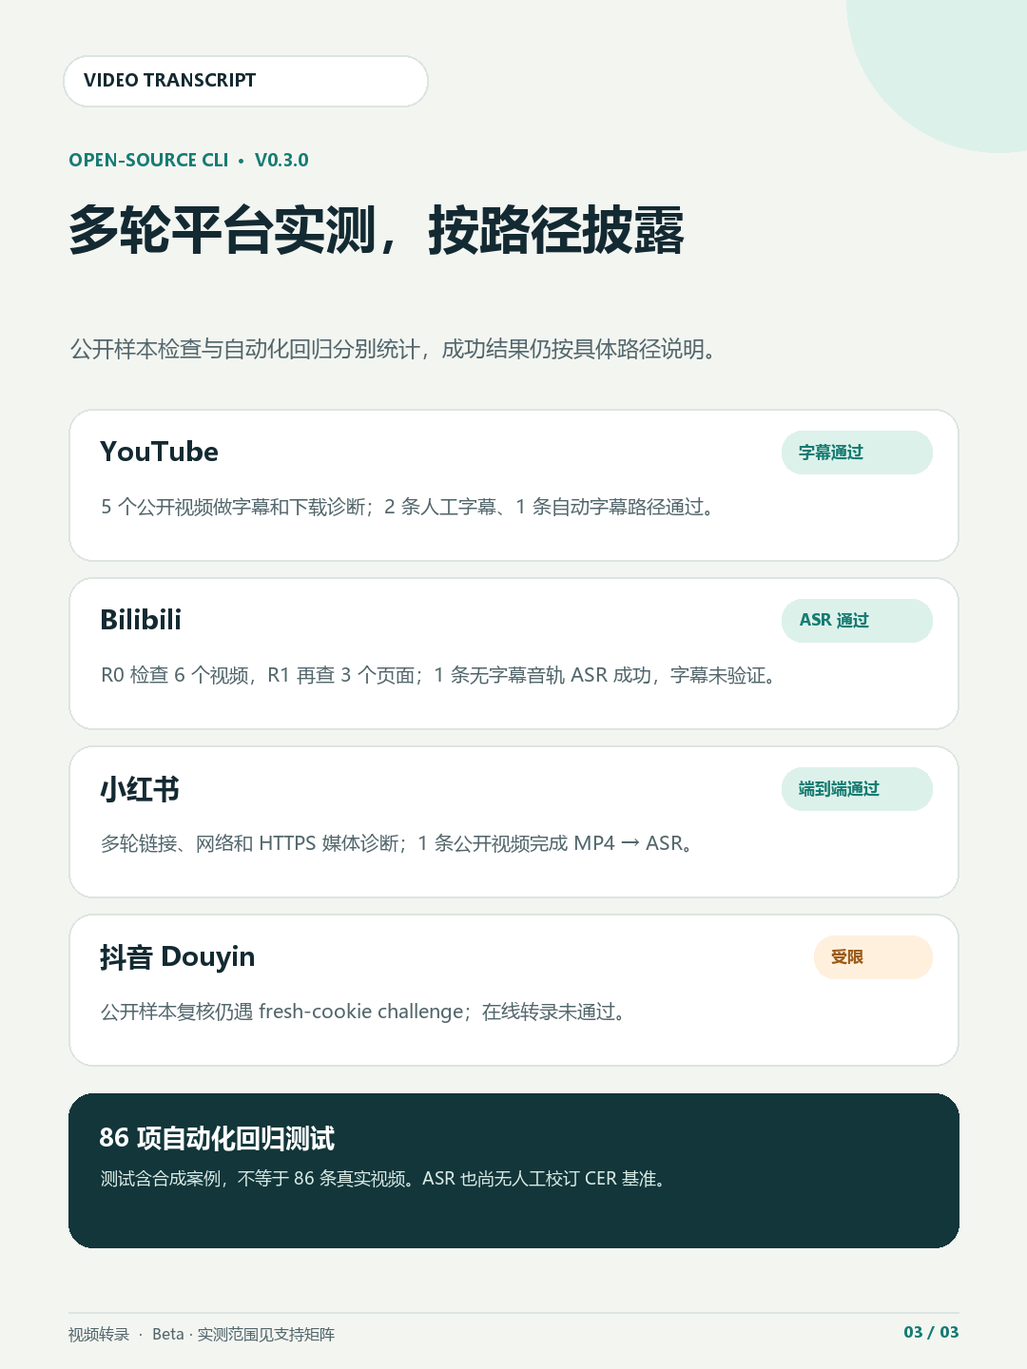
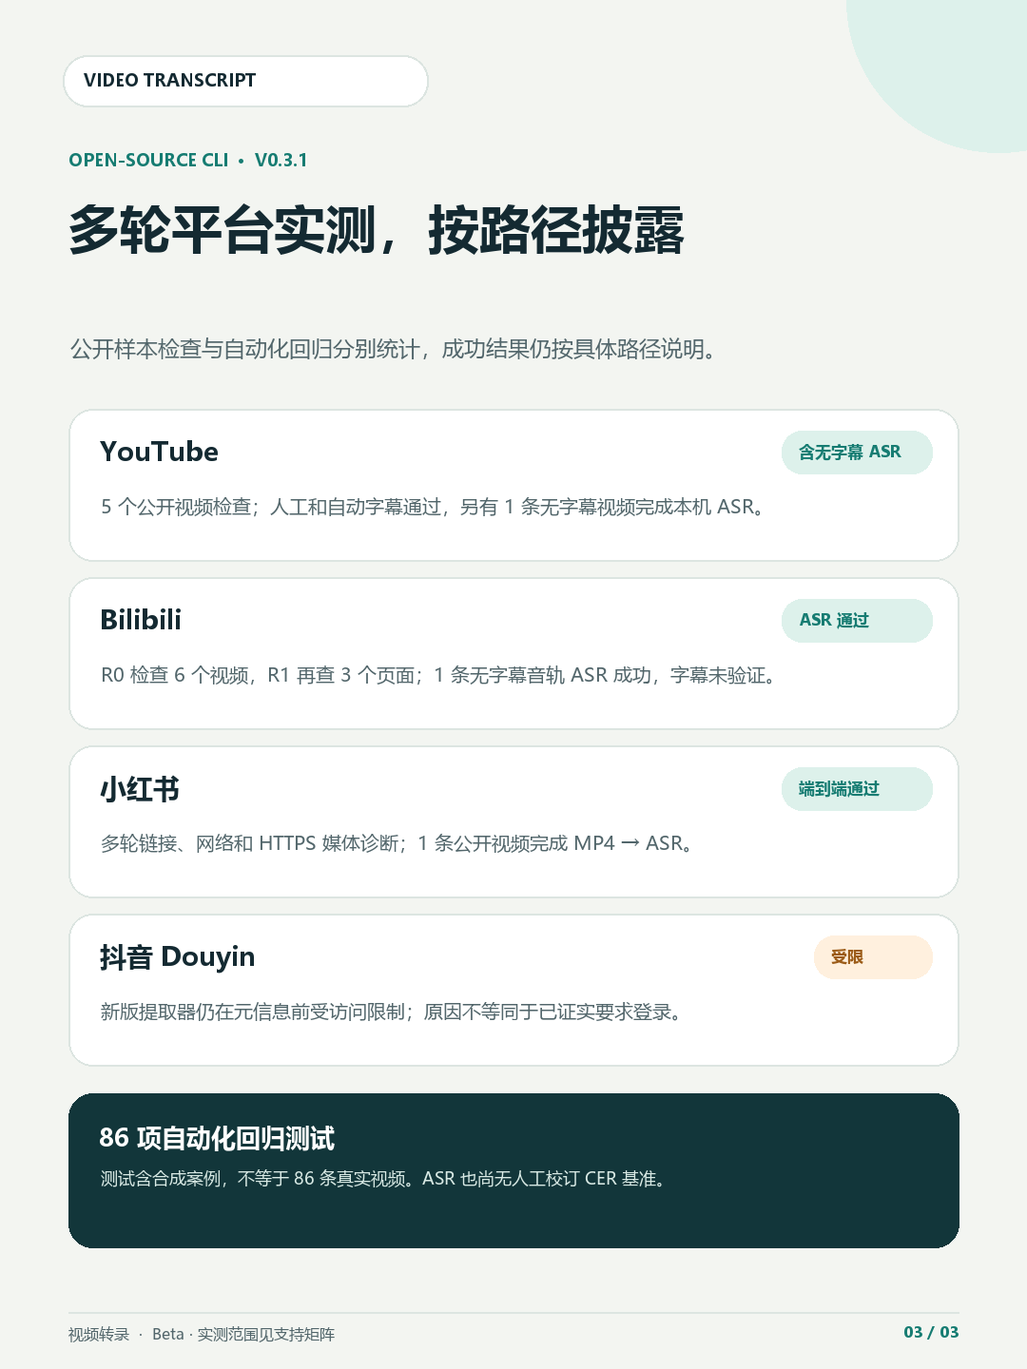
feat: improve subtitle fallback and update project branding

Changed region(s): [[0.0917, 0.7188, 0.6722, 0.75], [0.2139, 0.3438, 0.7333, 0.375], [0.7639, 0.3125, 0.8861, 0.3438]]

diff --git a/docs/assets/generate_social_cards.py b/docs/assets/generate_social_cards.py
@@ -61,7 +61,7 @@ def base(title, subtitle, page):
     d.ellipse((890, -160, 1210, 160), fill=MINT)
     rounded(d, (66, 58, 450, 112), 26, fill=WHITE, outline=LINE, width=2)
     d.text((88, 71), "VIDEO TRANSCRIPT", font=font(18, True), fill=INK)
-    d.text((72, 155), "OPEN-SOURCE CLI  ·  V0.3.0", font=font(18, True), fill=TEAL)
+    d.text((72, 155), "OPEN-SOURCE CLI  ·  V0.3.1", font=font(18, True), fill=TEAL)
     paragraph(d, (72, 202), title, font(54, True), INK, 910, leading=7, max_lines=2)
     paragraph(d, (74, 350), subtitle, font(23), MUTED, 900, leading=8, max_lines=2)
     d.line((72, 1380, 1008, 1380), fill=LINE, width=2)
@@ -138,10 +138,10 @@ def card_output():
 def card_status():
     im, d = base("多轮平台实测，按路径披露", "公开样本检查与自动化回归分别统计，成功结果仍按具体路径说明。", "03 / 03")
     rows = [
-        ("YouTube", "5 个公开视频做字幕和下载诊断；2 条人工字幕、1 条自动字幕路径通过。", "字幕通过", TEAL, MINT),
+        ("YouTube", "5 个公开视频检查；人工和自动字幕通过，另有 1 条无字幕视频完成本机 ASR。", "含无字幕 ASR", TEAL, MINT),
         ("Bilibili", "R0 检查 6 个视频，R1 再查 3 个页面；1 条无字幕音轨 ASR 成功，字幕未验证。", "ASR 通过", TEAL, MINT),
         ("小红书", "多轮链接、网络和 HTTPS 媒体诊断；1 条公开视频完成 MP4 → ASR。", "端到端通过", TEAL, MINT),
-        ("抖音 Douyin", "公开样本复核仍遇 fresh-cookie challenge；在线转录未通过。", "受限", "#9B5B17", PALE_ORANGE),
+        ("抖音 Douyin", "新版提取器仍在元信息前受访问限制；原因不等同于已证实要求登录。", "受限", "#9B5B17", PALE_ORANGE),
     ]
     y = 430
     for platform, detail, badge, color, pale in rows:

diff --git a/tests/test_n2b.py b/tests/test_n2b.py
@@ -408,6 +408,14 @@ class DownloadAdapterTests(unittest.TestCase):
                             "acodec": "aac",
                             "vcodec": "h264",
                             "duration": 1.0,
+                        }, {
+                            "format_id": "https-video-only",
+                            "url": "https://sns-video-bd.xhscdn.com/video-only.mp4",
+                            "ext": "mp4",
+                            "protocol": "https",
+                            "acodec": "none",
+                            "vcodec": "h264",
+                            "duration": 1.0,
                         }],
                     }
 
@@ -499,6 +507,8 @@ class DownloadAdapterTests(unittest.TestCase):
                         "url": "https://sns-video-bd.xhscdn.com/video.mp4?sign=private",
                         "ext": "mp4",
                         "protocol": "https",
+                        "acodec": "aac",
+                        "vcodec": "h264",
                         "duration": 1.0,
                     }],
                 }
@@ -542,6 +552,8 @@ class DownloadAdapterTests(unittest.TestCase):
                         "url": "https://sns-video-bd.xhscdn.com/video.mp4?sign=private",
                         "ext": "mp4",
                         "protocol": "https",
+                        "acodec": "aac",
+                        "vcodec": "h264",
                         "duration": 1.0,
                     }],
                 }

diff --git a/src/video_transcript_workbench/download.py b/src/video_transcript_workbench/download.py
@@ -180,9 +180,24 @@ def _xhs_https_og_video_url(
 
 
 def _has_safe_https_media_format(info: dict[str, Any], platform: str) -> bool:
+    """Return whether a safe HTTPS format can pass the download selector."""
     allowed_hosts = _allowed_hosts(platform)
     for item in info.get("formats") or []:
         if not isinstance(item, dict) or not isinstance(item.get("url"), str):
+            continue
+        if str(item.get("protocol") or "").casefold() not in ALLOWED_DOWNLOAD_PROTOCOLS:
+            continue
+        audio_codec = str(item.get("acodec") or "").casefold()
+        if not audio_codec or audio_codec == "none":
+            continue
+        extension = str(item.get("ext") or "").casefold()
+        is_supported_audio = extension in ALLOWED_AUDIO_EXTENSIONS
+        if platform == "xiaohongshu":
+            video_codec = str(item.get("vcodec") or "").casefold()
+            is_supported_muxed_mp4 = extension == "mp4" and video_codec not in {"", "none"}
+            if not (is_supported_audio or is_supported_muxed_mp4):
+                continue
+        elif not is_supported_audio:
             continue
         try:
             parsed = urlsplit(item["url"])

diff --git a/src/video_transcript_workbench/online.py b/src/video_transcript_workbench/online.py
@@ -305,7 +305,7 @@ def _safe_ytdlp_factory(platform: str, options: dict[str, Any]):
 def _harden_ytdlp_request_handlers(client: Any, allowed_hosts: tuple[str, ...]) -> None:
     """Install redirect-aware HTTPS host checks in yt-dlp's pinned transports.
 
-    yt-dlp 2026.7.4 exposes extraction and subtitle APIs publicly, but its transport
+    yt-dlp 2026.8.19 exposes extraction and subtitle APIs publicly, but its transport
     director does not expose a redirect-policy hook. The project pins this dependency
     and replaces its request handlers so each HTTP redirect is checked before the next
     request is sent. Unknown optional handlers fail closed.

diff --git a/src/video_transcript_workbench/__init__.py b/src/video_transcript_workbench/__init__.py
@@ -1,3 +1,3 @@
 """Local, evidence-preserving transcription engine."""
 
-__version__ = "0.3.0"
+__version__ = "0.3.1"

diff --git a/docs/online-support-matrix.md b/docs/online-support-matrix.md
@@ -6,11 +6,11 @@ Updated: 2026-10-20. This is a public, sample-scoped compatibility summary. PASS
 |---|---|---|
 | YouTube manual subtitles | PASS | Real sample; Apollo 11 JSON3 failure fell back to a manual VTT track and produced 335 segments. |
 | YouTube automatic subtitles | PASS | A real automatic caption track was retrieved and preserved as automatic in evidence. |
-| YouTube audio fallback when subtitles are unavailable | BLOCKED in the tested environment | Big Buck Bunny audio format selection succeeded, but access verification stopped transfer before any media bytes arrived. |
+| YouTube audio fallback when subtitles are unavailable | PASS (one sample) | A public video with no available subtitles completed audio-only download and local small/CPU/int8 ASR using yt-dlp 2026.8.19; one other media-transfer diagnostic remains blocked by an access check. |
 | Bilibili audio fallback when subtitles are unavailable | PASS | Real audio-only stream was downloaded and transcribed locally on CPU. |
 | Bilibili manual/automatic subtitle success | NOT TESTED | Tested anonymous public pages did not expose a usable subtitle track; no successful real subtitle sample is claimed. |
-| Douyin manual/automatic subtitle retrieval | BLOCKED | Rechecked 2026-10-19 through the available process-level proxy. The real public sample again reached the Douyin extractor and returned a fresh-cookie challenge before metadata or tracks; no credentials were read or supplied. |
-| Douyin audio fallback | BLOCKED | Stopped before subtitle selection and audio transfer because the same platform access check applies. |
+| Douyin manual/automatic subtitle retrieval | BLOCKED | Rechecked 2026-10-20 with yt-dlp 2026.8.19 through the available process-level proxy and without credentials. The extractor returned an access/auth-restricted error before metadata or tracks. Its “fresh cookies” wording does not establish that login is the cause. |
+| Douyin audio fallback | BLOCKED | Stopped before subtitle selection and audio transfer because metadata retrieval was blocked. No cookies, signed request generation, or browser-session reuse was attempted. |
 | Xiaohongshu manual/automatic subtitle success | NOT TESTED | The tested share page returned metadata but no subtitle tracks; no subtitle parser success is claimed. |
 | Xiaohongshu audio fallback when subtitles are unavailable | PASS (one sample) | Page-provided HTTPS `og:video` MP4 returned 206 `video/mp4` for a 1 KiB range probe; bounded 85,787,212-byte MP4 download then passed PyAV audio/video validation and small/CPU/int8 ASR, producing 408 segments. |
 | Local media CPU transcription | PASS | Windows Python 3.11.9, cached small model, CPU/int8 real run. |
@@ -21,19 +21,19 @@ The following counts summarize the R0/R1 and release checks. A page check, a suc
 
 | Platform | Public sample checks | Verified result |
 |---|---|---|
-| YouTube | Five distinct public videos were used for subtitle, parser, or media-transfer diagnostics. | Manual subtitle retrieval succeeded on two videos and automatic subtitle retrieval on one. Two media-transfer diagnostics stopped at a platform access check; only one was the no-subtitle ASR fallback sample. |
+| YouTube | Five distinct public videos were used for subtitle, parser, or media-transfer diagnostics. | Manual subtitle retrieval succeeded on two videos and automatic subtitle retrieval on one. One no-subtitle video completed audio download and local ASR with yt-dlp 2026.8.19; one other media-transfer diagnostic stopped at a platform access check. |
 | Bilibili | R0 checked six public videos; R1 checked three additional public pages for metadata and subtitle tracks. | One no-subtitle audio sample completed local ASR. No usable subtitle track was found in these checks, so subtitle-success remains unverified. |
 | Xiaohongshu | Multiple URL, network, page, and HTTPS-media diagnostics were performed. | One public video completed HTTPS MP4 retrieval, audio decoding, and local ASR. |
-| Douyin | A public sample was checked and rechecked through the available anonymous access path. | A fresh-cookie challenge stopped metadata or media retrieval; no online end-to-end ASR passed. |
+| Douyin | A public sample was checked and rechecked through the available anonymous access path using yt-dlp 2026.8.19. | An access/auth-restricted error stopped metadata retrieval; the extractor's fresh-cookie wording does not establish that login is the cause. No online end-to-end ASR passed. |
 
 The release regression suite contains 86 automated tests, including synthetic and offline cases. Those tests are reported separately and do not represent 86 real videos. The real-platform checks above are targeted compatibility checks, not a random or representative market sample. ASR has no CER benchmark against human-verified references.
 
 ## User-visible limitations
 
 - Subtitle availability depends on each video's subtitle tracks and the requested language.
-- The tested YouTube audio fallback was stopped by a platform access check. The program does not use cookies or bypass login, human verification, permission, or regional restrictions.
+- YouTube no-subtitle fallback completed on one public sample with yt-dlp 2026.8.19; another media-transfer diagnostic remains blocked by an access check. The program does not use cookies or bypass login, human verification, permission, or regional restrictions.
 - Bilibili subtitle success has not yet been verified on a real public sample.
-- The tested Douyin sample again required fresh cookies when rechecked on 2026-10-19, which this tool will not obtain or use. One Xiaohongshu sample succeeded through a page-provided HTTPS MP4; other videos may expose only HTTP media, no media, or require platform access checks.
+- The tested Douyin sample remained access-restricted before metadata when rechecked on 2026-10-20 with yt-dlp 2026.8.19. The extractor's fresh-cookie wording does not prove that login is the cause, and this tool will not obtain or use credentials. One Xiaohongshu sample succeeded through a page-provided HTTPS MP4; other videos may expose only HTTP media, no media, or require platform access checks.
 - Xiaohongshu manual/automatic subtitle parsing remains untested on a successful track. The MP4 ASR result is limited to one public sample and is not a universal compatibility or accuracy guarantee.
 - The ASR comparison has no human-reference CER results. No model accuracy ranking or universal accuracy claim is made.
 - A successful public sample does not guarantee another video's availability or transcription quality.

diff --git a/README.en.md b/README.en.md
@@ -1,11 +1,11 @@
 # Video Transcript
 
-**Video Transcript Workbench · Online CLI Beta v0.3.0**<br>
+**Video Transcript · Online CLI Beta v0.3.1**<br>
 [简体中文](README.md) · [Online platform verification matrix](docs/online-support-matrix.md)
 
-Video Transcript handles online links and local media. For online links it checks for usable subtitles first. When none match, and the platform permits media retrieval and the machine has enough resources, it runs CPU speech recognition locally. This provides a path for some videos without usable subtitles, subject to platform access.
+Turn supported video links or local media into timestamped transcripts. When usable subtitles are unavailable, the tool can recognize speech locally if the platform permits media retrieval. This gives some videos without captions a local ASR path, subject to platform access.
 
-The CLI writes a timestamped `transcript.md` and an `evidence.json` with raw segments, source, and run settings. With the Codex project Skill, users can also request a separate analysis document based on the transcript. That is an optional agent step; it does not rewrite the transcript and is not generated by the CLI by default.
+The CLI writes `transcript.md` and `evidence.json` with raw segments, source, and run settings. If you request analysis in Codex, the project Skill can have the agent save a separate `analysis.md`. This is optional and never overwrites the transcript; the CLI does not generate it.
 
 > The Beta has gone through multiple real-platform sample checks and automated regression runs. Public claims are scoped by platform and processing path; they do not guarantee success for every video.
 
@@ -62,19 +62,19 @@ The transcript, JSON, and analysis text shown above are **fictional format examp
 |---|---|---|
 | YouTube manual subtitles | PASS | Real retrieval; a fallback subtitle format was verified after a specific format failed. |
 | YouTube automatic subtitles | PASS | Real automatic captions were retrieved and remain marked as automatic in evidence. |
-| YouTube no-subtitle audio fallback | Restricted | The tested environment hit a platform access check; the tool does not bypass it. |
+| YouTube no-subtitle audio → local ASR | PASS (one sample) | One video without available subtitles completed audio download and CPU/int8 transcription; another media request remains access-restricted. |
 | Bilibili audio fallback → local ASR | PASS | Real audio-only download and local CPU transcription. |
 | Bilibili subtitle retrieval | Not tested | No real subtitle success sample is available. |
 | Xiaohongshu HTTPS MP4 → local ASR | PASS (one sample) | One public video completed real retrieval and local transcription; this is not a guarantee for other videos. |
 | Xiaohongshu subtitle retrieval | Not tested | No real subtitle-track parsing success has been verified. |
-| Douyin online transcription | Restricted | The real sample hit a fresh-cookie challenge; no online end-to-end transcription passed, and the tool does not read or obtain credentials. |
+| Douyin online transcription | Restricted | The current extractor remains access-restricted before metadata. Its “fresh cookies” message does not establish that login is the cause; the tool does not obtain or use credentials. |
 
 ### Sample coverage
 
-- YouTube: five distinct public videos were used for subtitle, parser, or media-transfer diagnostics. Manual subtitle retrieval succeeded on two videos and automatic subtitle retrieval on one. Two transfer diagnostics stopped at a platform access check; only one was a no-subtitle ASR fallback sample.
+- YouTube: five distinct public videos were used for subtitle, parser, or media-transfer diagnostics. Manual subtitle retrieval succeeded on two videos and automatic subtitle retrieval on one. One no-subtitle video completed audio download and local ASR with yt-dlp 2026.8.19; one other transfer diagnostic stopped at a platform access check.
 - Bilibili: R0 checked six public videos, and R1 checked three additional public pages for metadata and subtitle tracks. One no-subtitle audio sample completed local ASR; no real subtitle-success sample is available.
 - Xiaohongshu: multiple URL, network, and HTTPS-media diagnostics were run; one public video completed the MP4-to-local-ASR path.
-- Douyin: a public sample was rechecked and hit a fresh-cookie challenge; online transcription did not complete.
+- Douyin: a public sample was rechecked without credentials using yt-dlp 2026.8.19 and remained access-restricted before metadata; online transcription did not complete.
 - The 86 automated regression tests are counted separately. They include offline and synthetic cases and do not represent 86 real videos.
 
 See the [online support matrix](docs/online-support-matrix.md) for sample coverage and user-visible limitations. Public-video checks, successful paths, and automated regression tests are reported separately. **There is no CER benchmark against human-verified references, so this project makes no model-ranking or universal accuracy claim.**
@@ -92,8 +92,8 @@ The package provides three entry points:
 The validated environment is Windows 10/11 with Python 3.11. Python 3.10+ is declared, but other versions and operating systems have not been verified.
 
 ~~~powershell
-git clone https://github.com/CHAOSEA/video-transcript-workbench.git
-cd video-transcript-workbench
+git clone https://github.com/CHAOSEA/video-transcript.git
+cd video-transcript
 py -3.11 -m venv .venv
 .\.venv\Scripts\python.exe -m pip install --upgrade pip
 .\.venv\Scripts\python.exe -m pip install .

diff --git a/DEPENDENCIES.md b/DEPENDENCIES.md
@@ -15,7 +15,7 @@ The project's source code is licensed under **MIT**, with copyright line `Copyri
 | Python | Validated: 3.11.9; declared: >=3.10 | Python Software Foundation License | [Official license](https://docs.python.org/3/license.html) |
 | faster-whisper | 1.2.1 | MIT | [Upstream repository](https://github.com/SYSTRAN/faster-whisper) |
 | PyAV (`av`) | 17.0.0 | BSD-3-Clause | [Upstream license](https://github.com/PyAV-Org/PyAV/blob/main/LICENSE.txt); wheels may bundle FFmpeg components. |
-| yt-dlp | 2026.7.4, with `default` extra | Unlicense | [Upstream license](https://github.com/yt-dlp/yt-dlp/blob/master/LICENSE); this project depends on the Python package and does not bundle the standalone executable. |
+| yt-dlp | 2026.8.19, with `default` extra | Unlicense | [Upstream license](https://github.com/yt-dlp/yt-dlp/blob/master/LICENSE); this project depends on the Python package and does not bundle the standalone executable. |
 | yt-dlp-ejs | 0.8.0; installed from `yt-dlp[default]` in the isolated R3 check | Unlicense, with included MIT/ISC components | See the [upstream repository](https://github.com/yt-dlp/ejs). |
 | Node.js | Node 24.22.0 LTS verified; EJS requires Node >=22 | Node.js license and bundled notices | System runtime only; not installed or packaged by this project. The R3 check used a checksum-verified temporary Node distribution; the initial validation used Node 25.9.0, which is now EOL. See [Node.js releases](https://nodejs.org/en/about/previous-releases). |
 
@@ -43,8 +43,8 @@ The real local ASR check used `Systran/faster-whisper-small`, revision `536b0662
 
 ## Platform and packaging notes
 
-- yt-dlp uses its own platform extractors and media transfer implementation. The project pins yt-dlp 2026.7.4 and tests URL and redirect host validation against that version. Re-check the network adapter whenever yt-dlp is upgraded.
-- yt-dlp 2026.7.4 includes `Douyin` and `XiaoHongShu` extractors in its upstream support list. That list does not guarantee that any given video, subtitle, CDN, or region is accessible; the tested Douyin sample again required fresh cookies when rechecked on 2026-10-19, while one Xiaohongshu sample completed the HTTPS MP4 fallback and local ASR. See `docs/online-support-matrix.md`.
+- yt-dlp uses its own platform extractors and media transfer implementation. The project pins yt-dlp 2026.8.19 and has run the full regression suite plus a real YouTube no-subtitle download and local ASR check against that version. Re-check the network adapter whenever yt-dlp is upgraded.
+- yt-dlp 2026.8.19 includes `Douyin` and `XiaoHongShu` extractors in its upstream support list. That list does not guarantee that any given video, subtitle, CDN, or region is accessible; an anonymous Douyin check remained blocked before metadata, while one Xiaohongshu sample completed the HTTPS MP4 fallback and local ASR. See `docs/online-support-matrix.md`.
 - Xiaohongshu download selection prefers audio-only formats, then a page-provided, allowlisted HTTPS `og:video` MP4. PyAV validates that the downloaded MP4 contains both audio and video. The page metadata path was exercised with one real sample; it is not a platform-wide availability guarantee.
 - The project does not package or enable remote EJS components, read login credentials, or bypass platform checks.
 - For Xiaohongshu, an `xsec_token` explicitly present in the supplied URL may be used only in-memory for the extractor request. Evidence and safe errors keep it out; no browser or account credentials are loaded.

diff --git a/.codex/skills/video-transcript/SKILL.md b/.codex/skills/video-transcript/SKILL.md
@@ -20,7 +20,7 @@ Read [the online support matrix](../../../docs/online-support-matrix.md) when a 
 1. Use the machine and execution environment that can access the media, installed CLI, and local model files. Codex discovers this repository-scoped skill when the repository is open as the active local project.
 2. Resolve the executable before running. Prefer the repository virtual environment entry point (`.venv\Scripts\video-transcript-link.exe` on Windows or `.venv/bin/video-transcript-link` on Unix-like systems); otherwise use an already available command on PATH. If neither exists, report the installation requirement. Do not search unrelated private project folders or install dependencies automatically.
 3. Preserve the user's requested model and language. If no model is specified, use `small` as the tested convenience default; do not claim it is the most accurate. If the model is missing, report that and ask before downloading weights or changing environments.
-4. Use the requested output directory. If none is given, choose a new, non-existing directory in the user's Documents/VideoTranscriptWorkbench folder, outside the Git working tree. The CLI requires a new output directory; never reuse or overwrite a prior run.
+4. Use the requested output directory. If none is given, choose a new, non-existing directory in the user's Documents/VideoTranscript folder, outside the Git working tree. The CLI requires a new output directory; never reuse or overwrite a prior run.
 5. For online URLs, use the CLI directly. Do not fetch media with a separate downloader, use browser cookies, read account profiles, alter proxy settings, bypass access checks, or retry the same blocked request repeatedly.
 6. Keep share tokens and signed URLs out of progress messages, saved logs, and reports. Pass a user-provided URL only to the CLI as required; do not echo its full query string.
 

diff --git a/docs/xiaohongshu/图文发布素材.md b/docs/xiaohongshu/图文发布素材.md
@@ -31,7 +31,7 @@ CLI 会生成两份文件：
 
 如果在 Codex 中明确要求分析，项目 Skill 可以基于逐字稿另存 `analysis.md`，整理摘要、观点和对应时间戳，不改写原始转录。这一步由当前 Agent 模型完成，逐字稿会进入该模型的处理上下文；CLI 本身不生成分析稿。
 
-此前对 YouTube 使用了 5 条公开视频做字幕、解析和媒体传输诊断，3 条字幕样本路径成功；Bilibili 在 R0 检查了 6 个公开视频，R1 又检查 3 个页面，其中一条完成无字幕音轨转录；小红书经过多轮 URL、网络和 HTTPS 媒体诊断后，有一条公开视频完成端到端转录。抖音公开样本仍遇平台访问验证。86 项自动化回归测试单独统计，不等于 86 条真实视频。
+此前对 YouTube 使用了 5 条公开视频做字幕、解析和媒体传输诊断；2 条人工字幕、1 条自动字幕路径通过，另有 1 条无字幕视频通过音轨下载和本机 ASR。Bilibili 在 R0 检查了 6 个公开视频，R1 又检查 3 个页面，其中一条完成无字幕音轨转录；小红书经过多轮 URL、网络和 HTTPS 媒体诊断后，有一条公开视频完成端到端转录。抖音公开样本仍在元信息前遇访问限制。86 项自动化回归测试单独统计，不等于 86 条真实视频。
 
 完整范围和具体状态见 README 的[在线平台实测矩阵](../online-support-matrix.md)。样本测试说明哪些路径曾经跑通，不代表所有视频都能处理。
 
